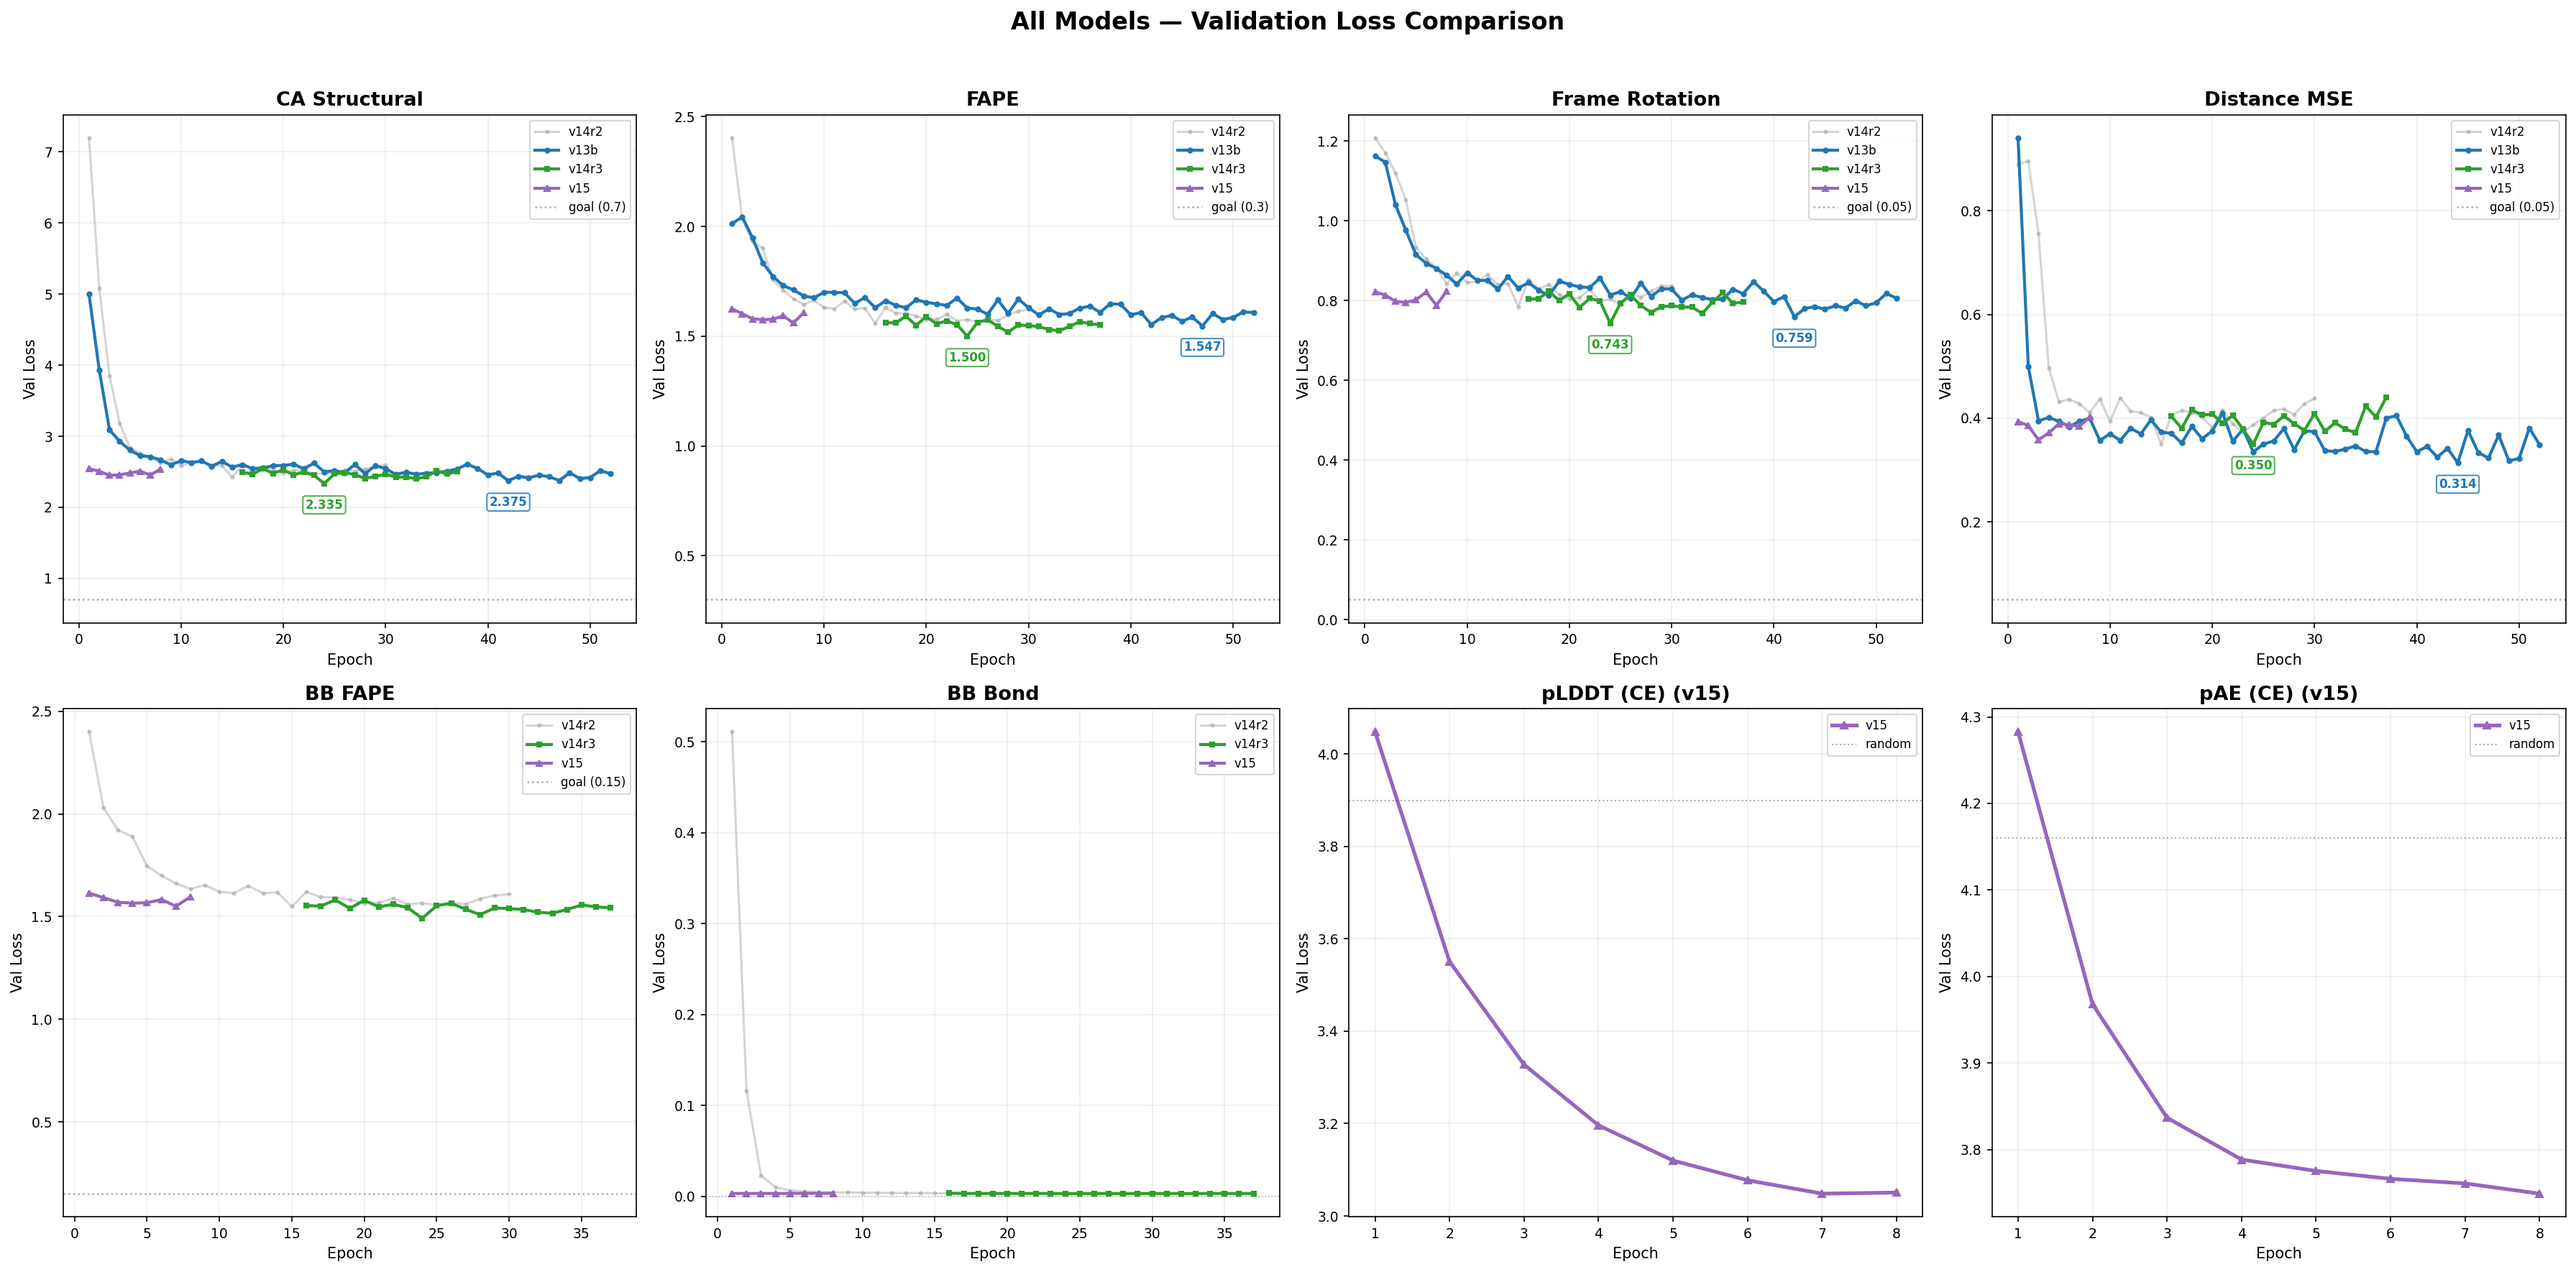
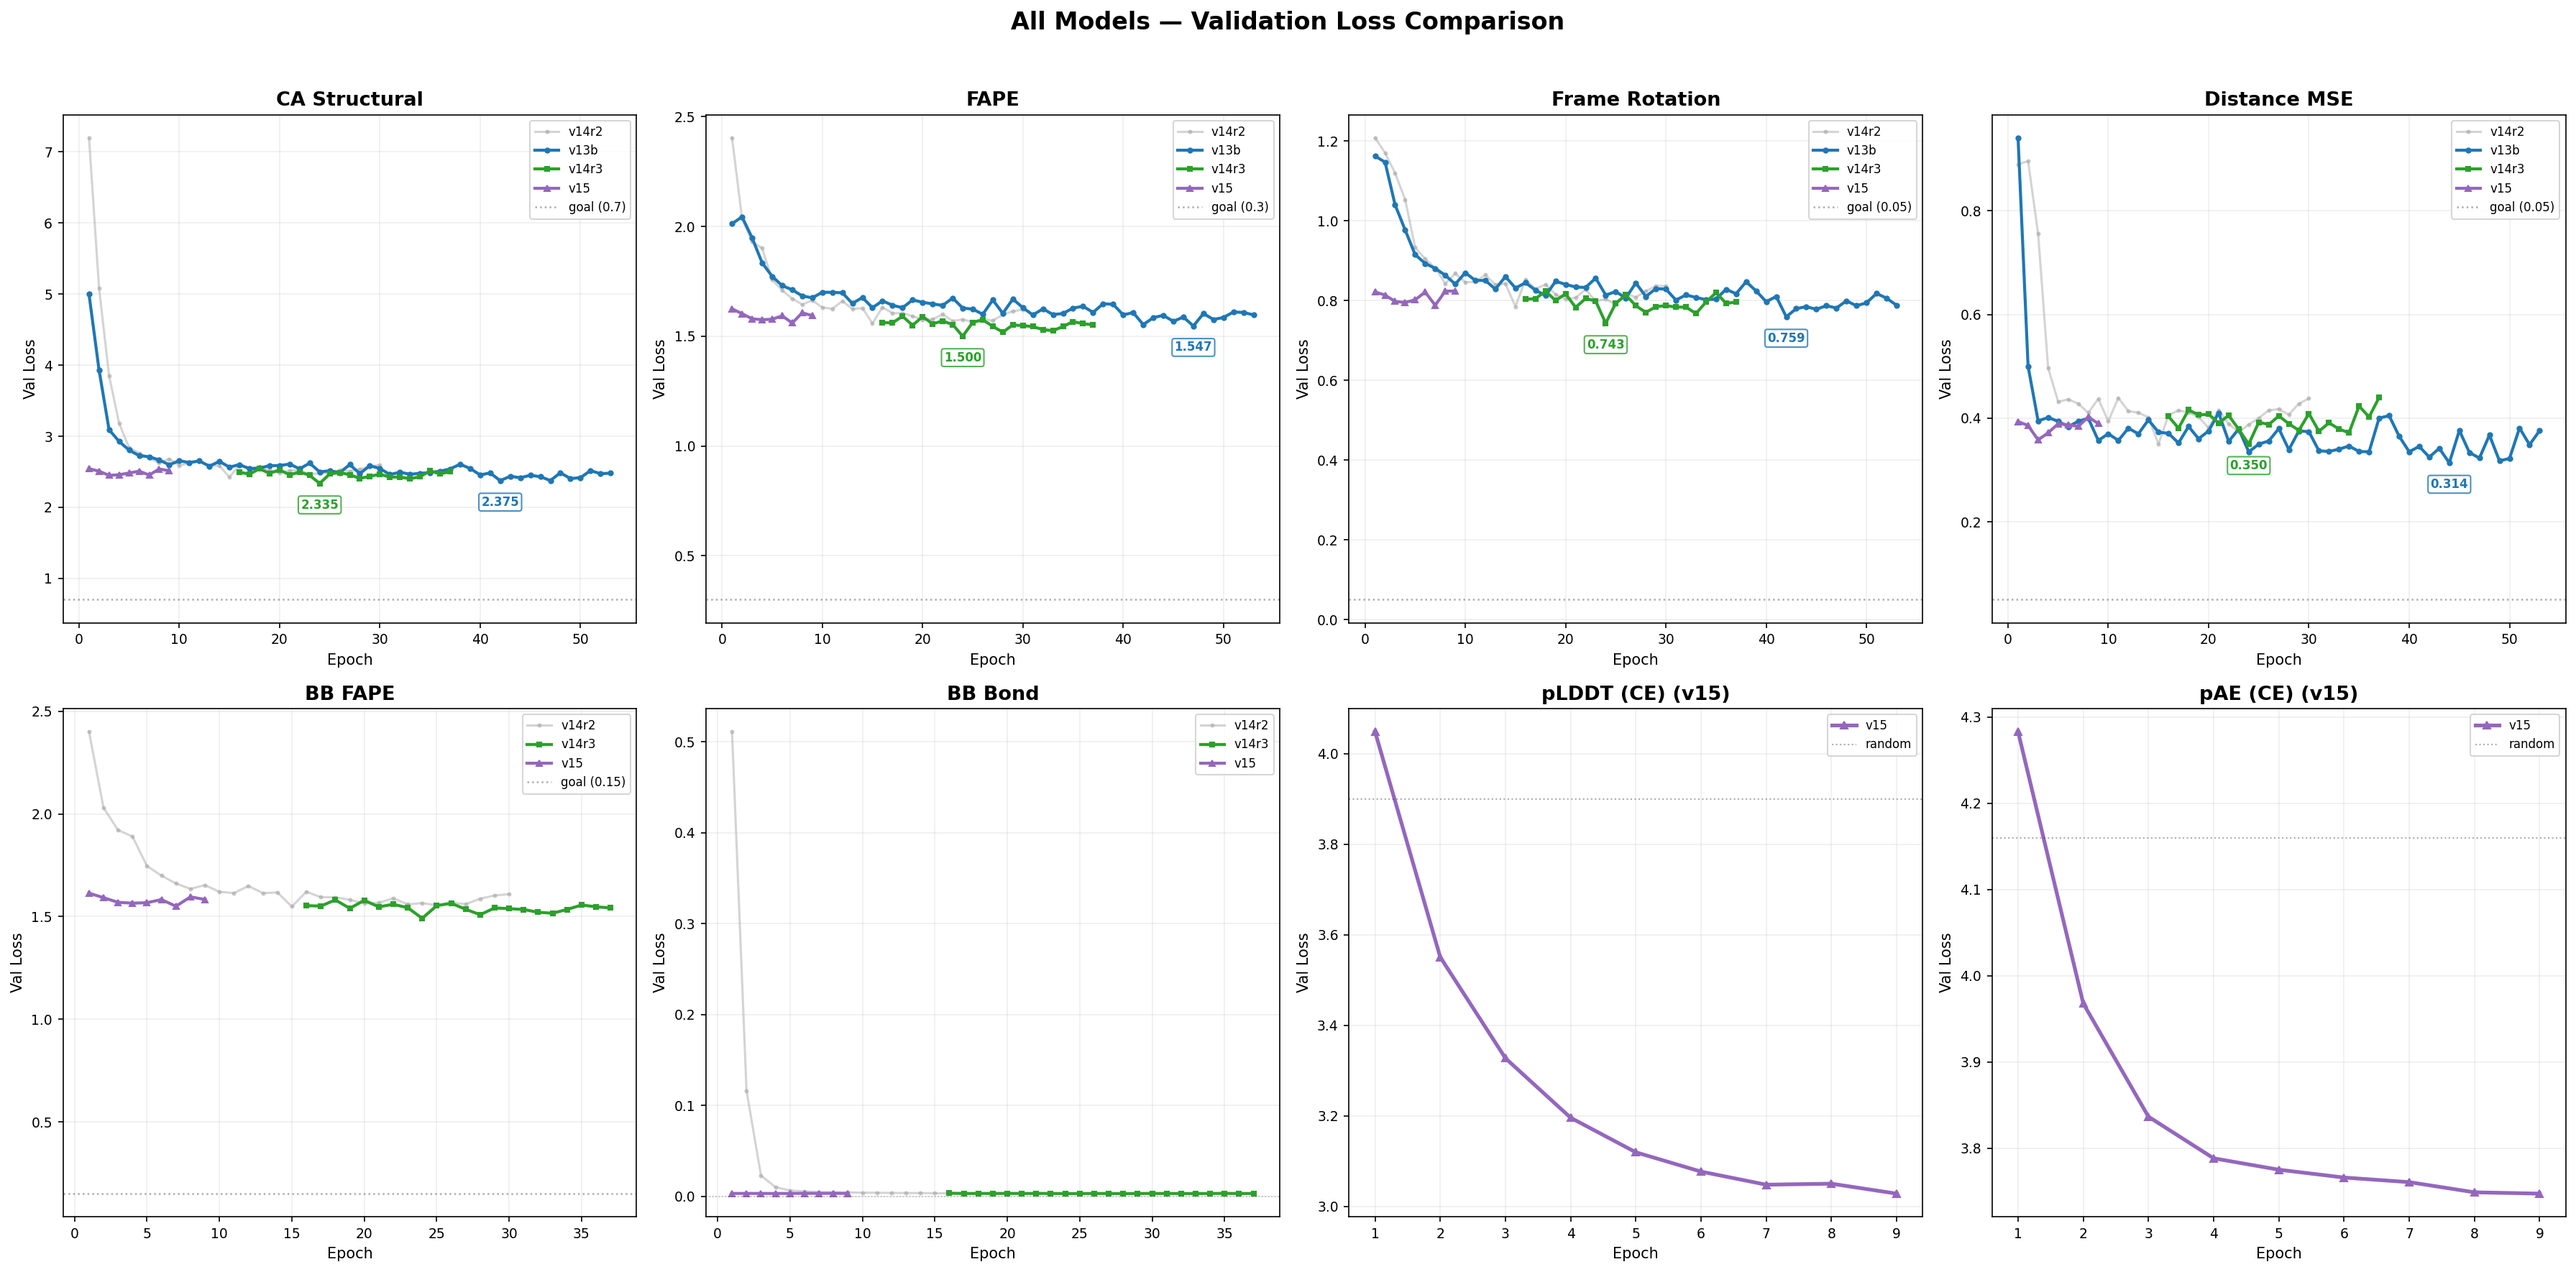
Update: v15 E9 (pat 6/15, pLDDT 3.03), refresh plot + timestamp

diff --git a/minifold.html b/minifold.html
@@ -194,7 +194,7 @@
       Full architecture history, training tables, loss functions, and analysis for the protein backbone diffusion model.
     </p>
     <p id="last-updated" style="color: var(--text-secondary); font-size: 13px; margin-bottom: 16px; font-style: italic;">
-      Last updated: Mar 14, 2026 at 7:55 PM PST
+      Last updated: Mar 14, 2026 at 8:30 PM PST
     </p>
 
     <div class="mf-tabs">
@@ -264,7 +264,7 @@
         </div>
         <div style="font-size: 13px; color: var(--text-secondary); line-height: 1.7;">
           Best structural: <strong>2.449</strong> (E3)<br>
-          Current: E7 &middot; pat 4/15<br>
+          Current: E9 &middot; pat 6/15<br>
           pLDDT + pAE confidence heads &middot; 15 terms
         </div>
       </div>
@@ -415,6 +415,7 @@
           <tr><td>6</td><td>5.652</td><td>2.449</td><td>1.593</td><td>0.821</td><td>0.392</td><td>1.583</td><td>3.077</td><td>3.766</td><td>&mdash;</td><td><span class="tag tag-stale">pat 3/15</span></td></tr>
           <tr><td>7</td><td>5.808</td><td>2.449</td><td>1.560</td><td>0.788</td><td>0.393</td><td>1.551</td><td>3.048</td><td>3.761</td><td>&mdash;</td><td><span class="tag tag-stale">pat 4/15</span></td></tr>
           <tr><td>8</td><td>5.998</td><td>2.449</td><td>1.607</td><td>0.824</td><td>0.385</td><td>1.597</td><td>3.051</td><td>3.749</td><td>&mdash;</td><td><span class="tag tag-stale">pat 5/15</span></td></tr>
+          <tr><td>9</td><td>6.074</td><td>2.449</td><td>1.594</td><td>0.824</td><td>0.385</td><td>1.584</td><td>3.029</td><td>3.748</td><td>&mdash;</td><td><span class="tag tag-stale">pat 6/15</span></td></tr>
         </tbody>
       </table>
     </div>
